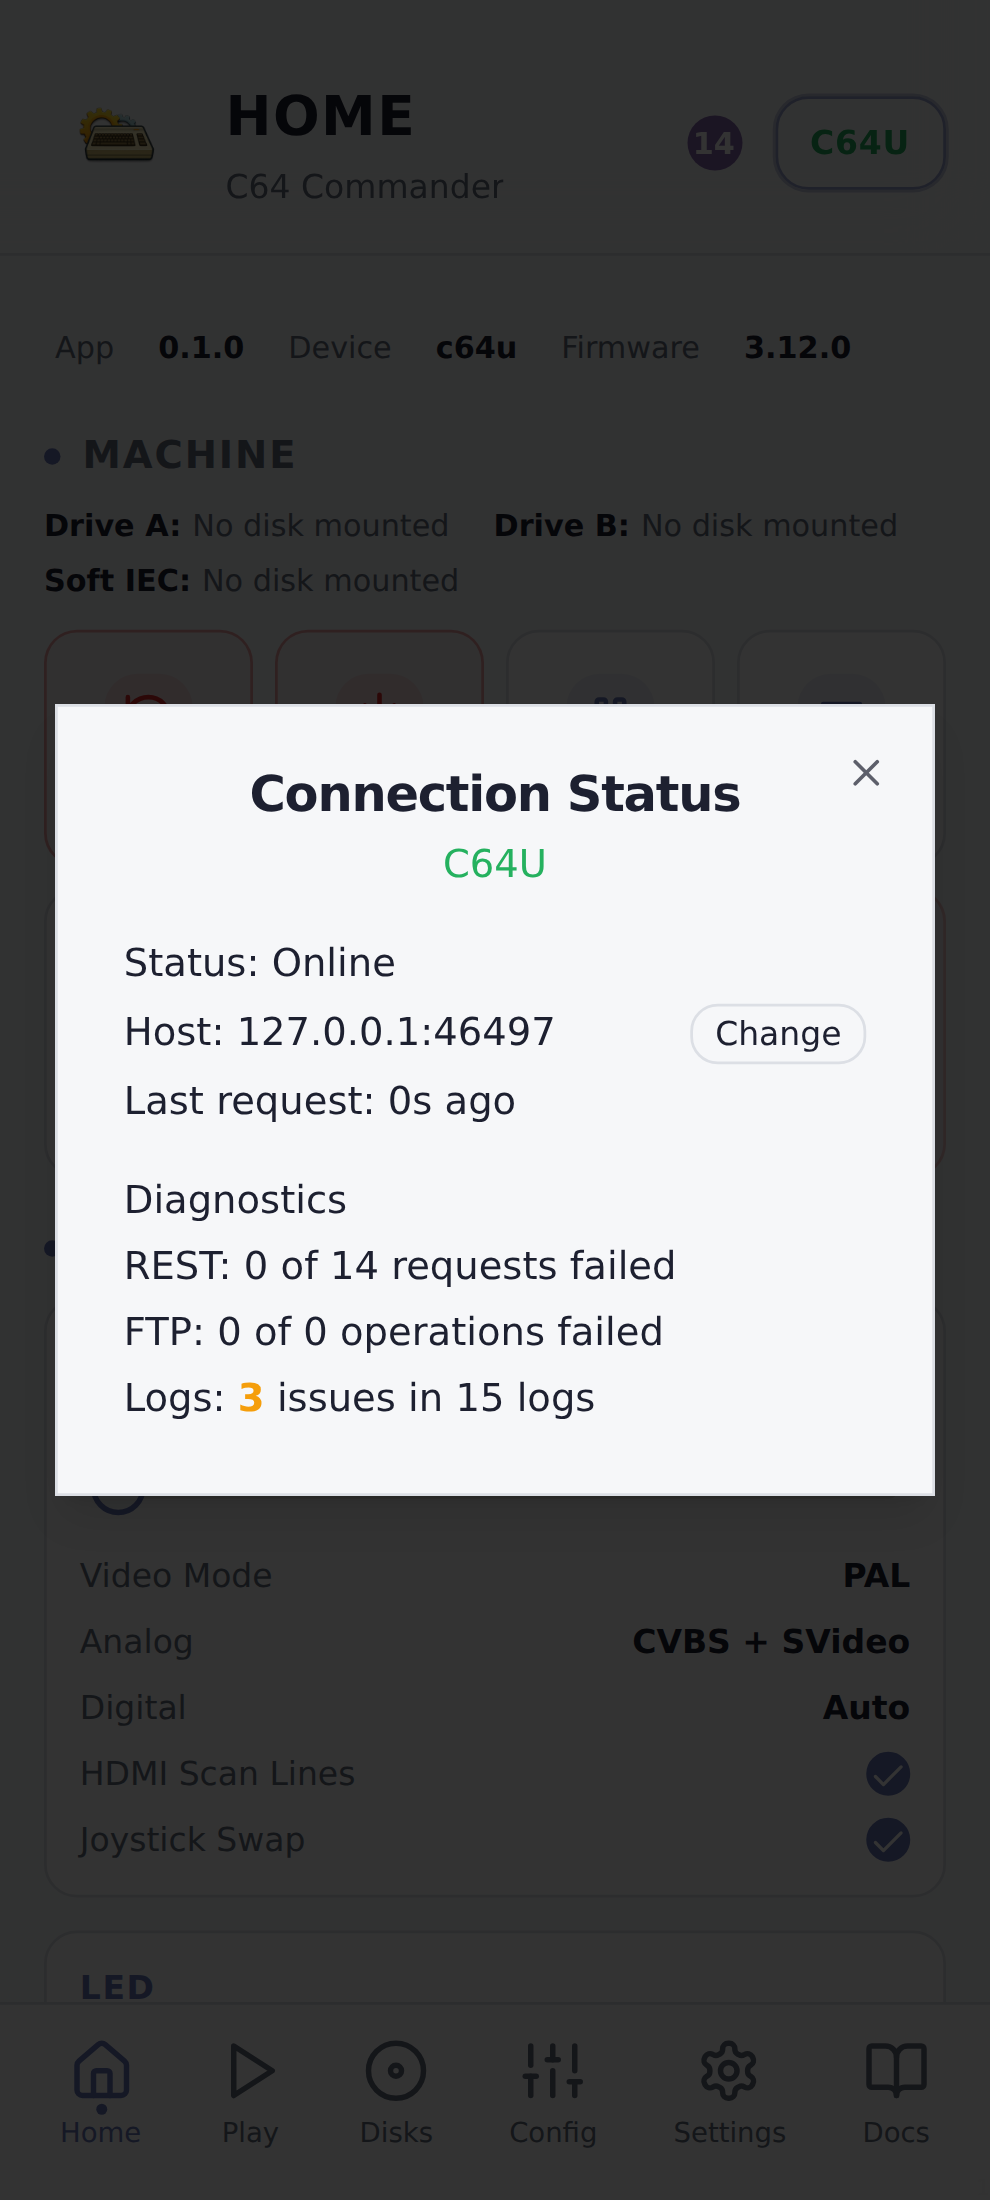
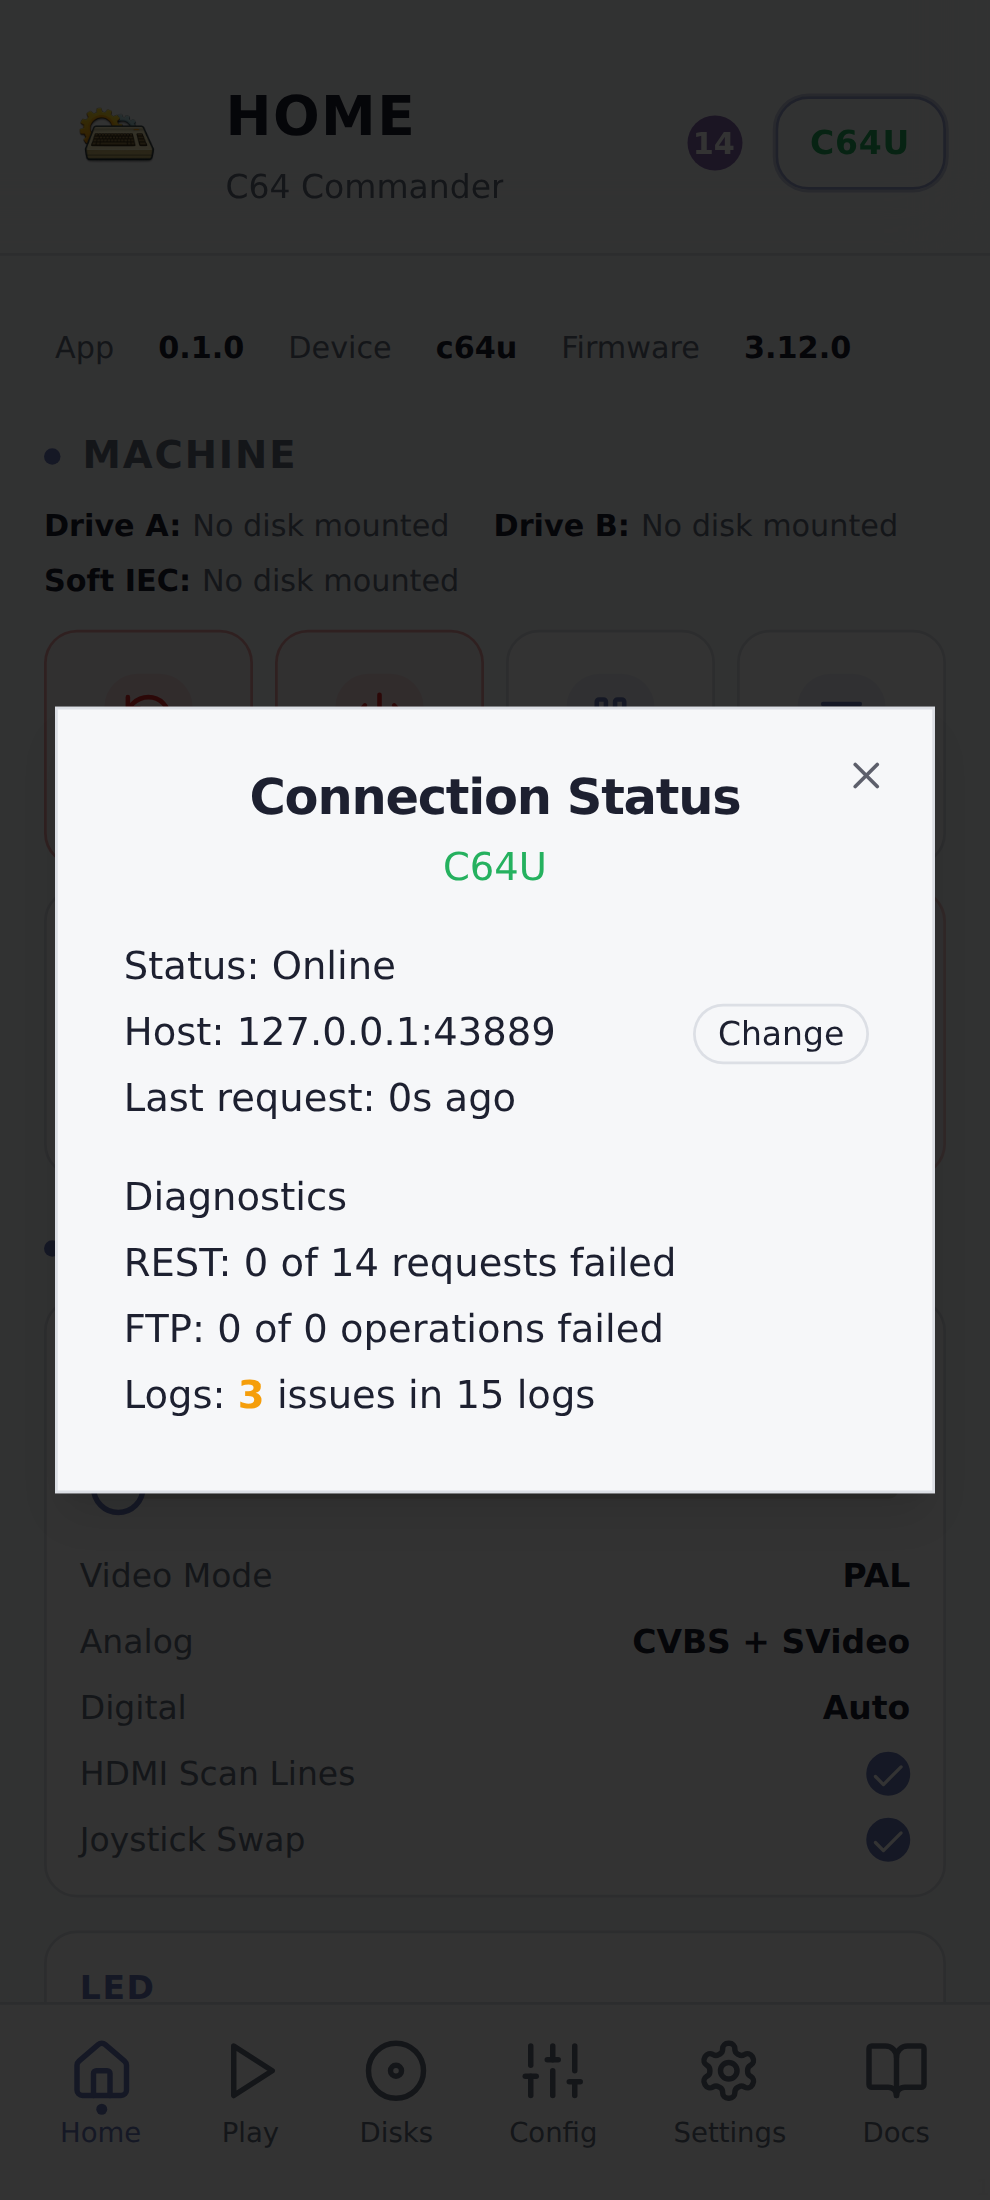
fix: ring-1 ring-border on Change button (no height impact); fix close-button testid scope in layout test

diff --git a/src/components/ConnectivityIndicator.tsx b/src/components/ConnectivityIndicator.tsx
@@ -126,7 +126,7 @@ export function ConnectivityIndicator({ className }: Props) {
               ) : (
                 <div data-testid="connection-status-row-host" className="flex min-h-5 items-center justify-between gap-2">
                   <span className="break-all"><span className="font-medium">Host:</span> {configuredHost}</span>
-                  <Button variant="outline" className="h-auto shrink-0 py-0 px-2 text-xs leading-5" onClick={() => setEditingHost(true)}>
+                  <Button variant="ghost" className="h-auto shrink-0 py-0 px-2 text-xs leading-5 ring-1 ring-border" onClick={() => setEditingHost(true)}>
                     Change
                   </Button>
                 </div>

diff --git a/playwright/connectionStatusLayout.spec.ts b/playwright/connectionStatusLayout.spec.ts
@@ -173,7 +173,7 @@ test.describe('Connection Status pop-up layout', () => {
     await page.goto('/', { waitUntil: 'domcontentloaded' });
     const popover = await openPopover(page);
 
-    const closeButton = popover.getByTestId('connection-status-close');
+    const closeButton = page.getByTestId('connection-status-close');
     await expect(closeButton).toBeVisible();
     await closeButton.click();
     await expect(popover).toBeHidden();
